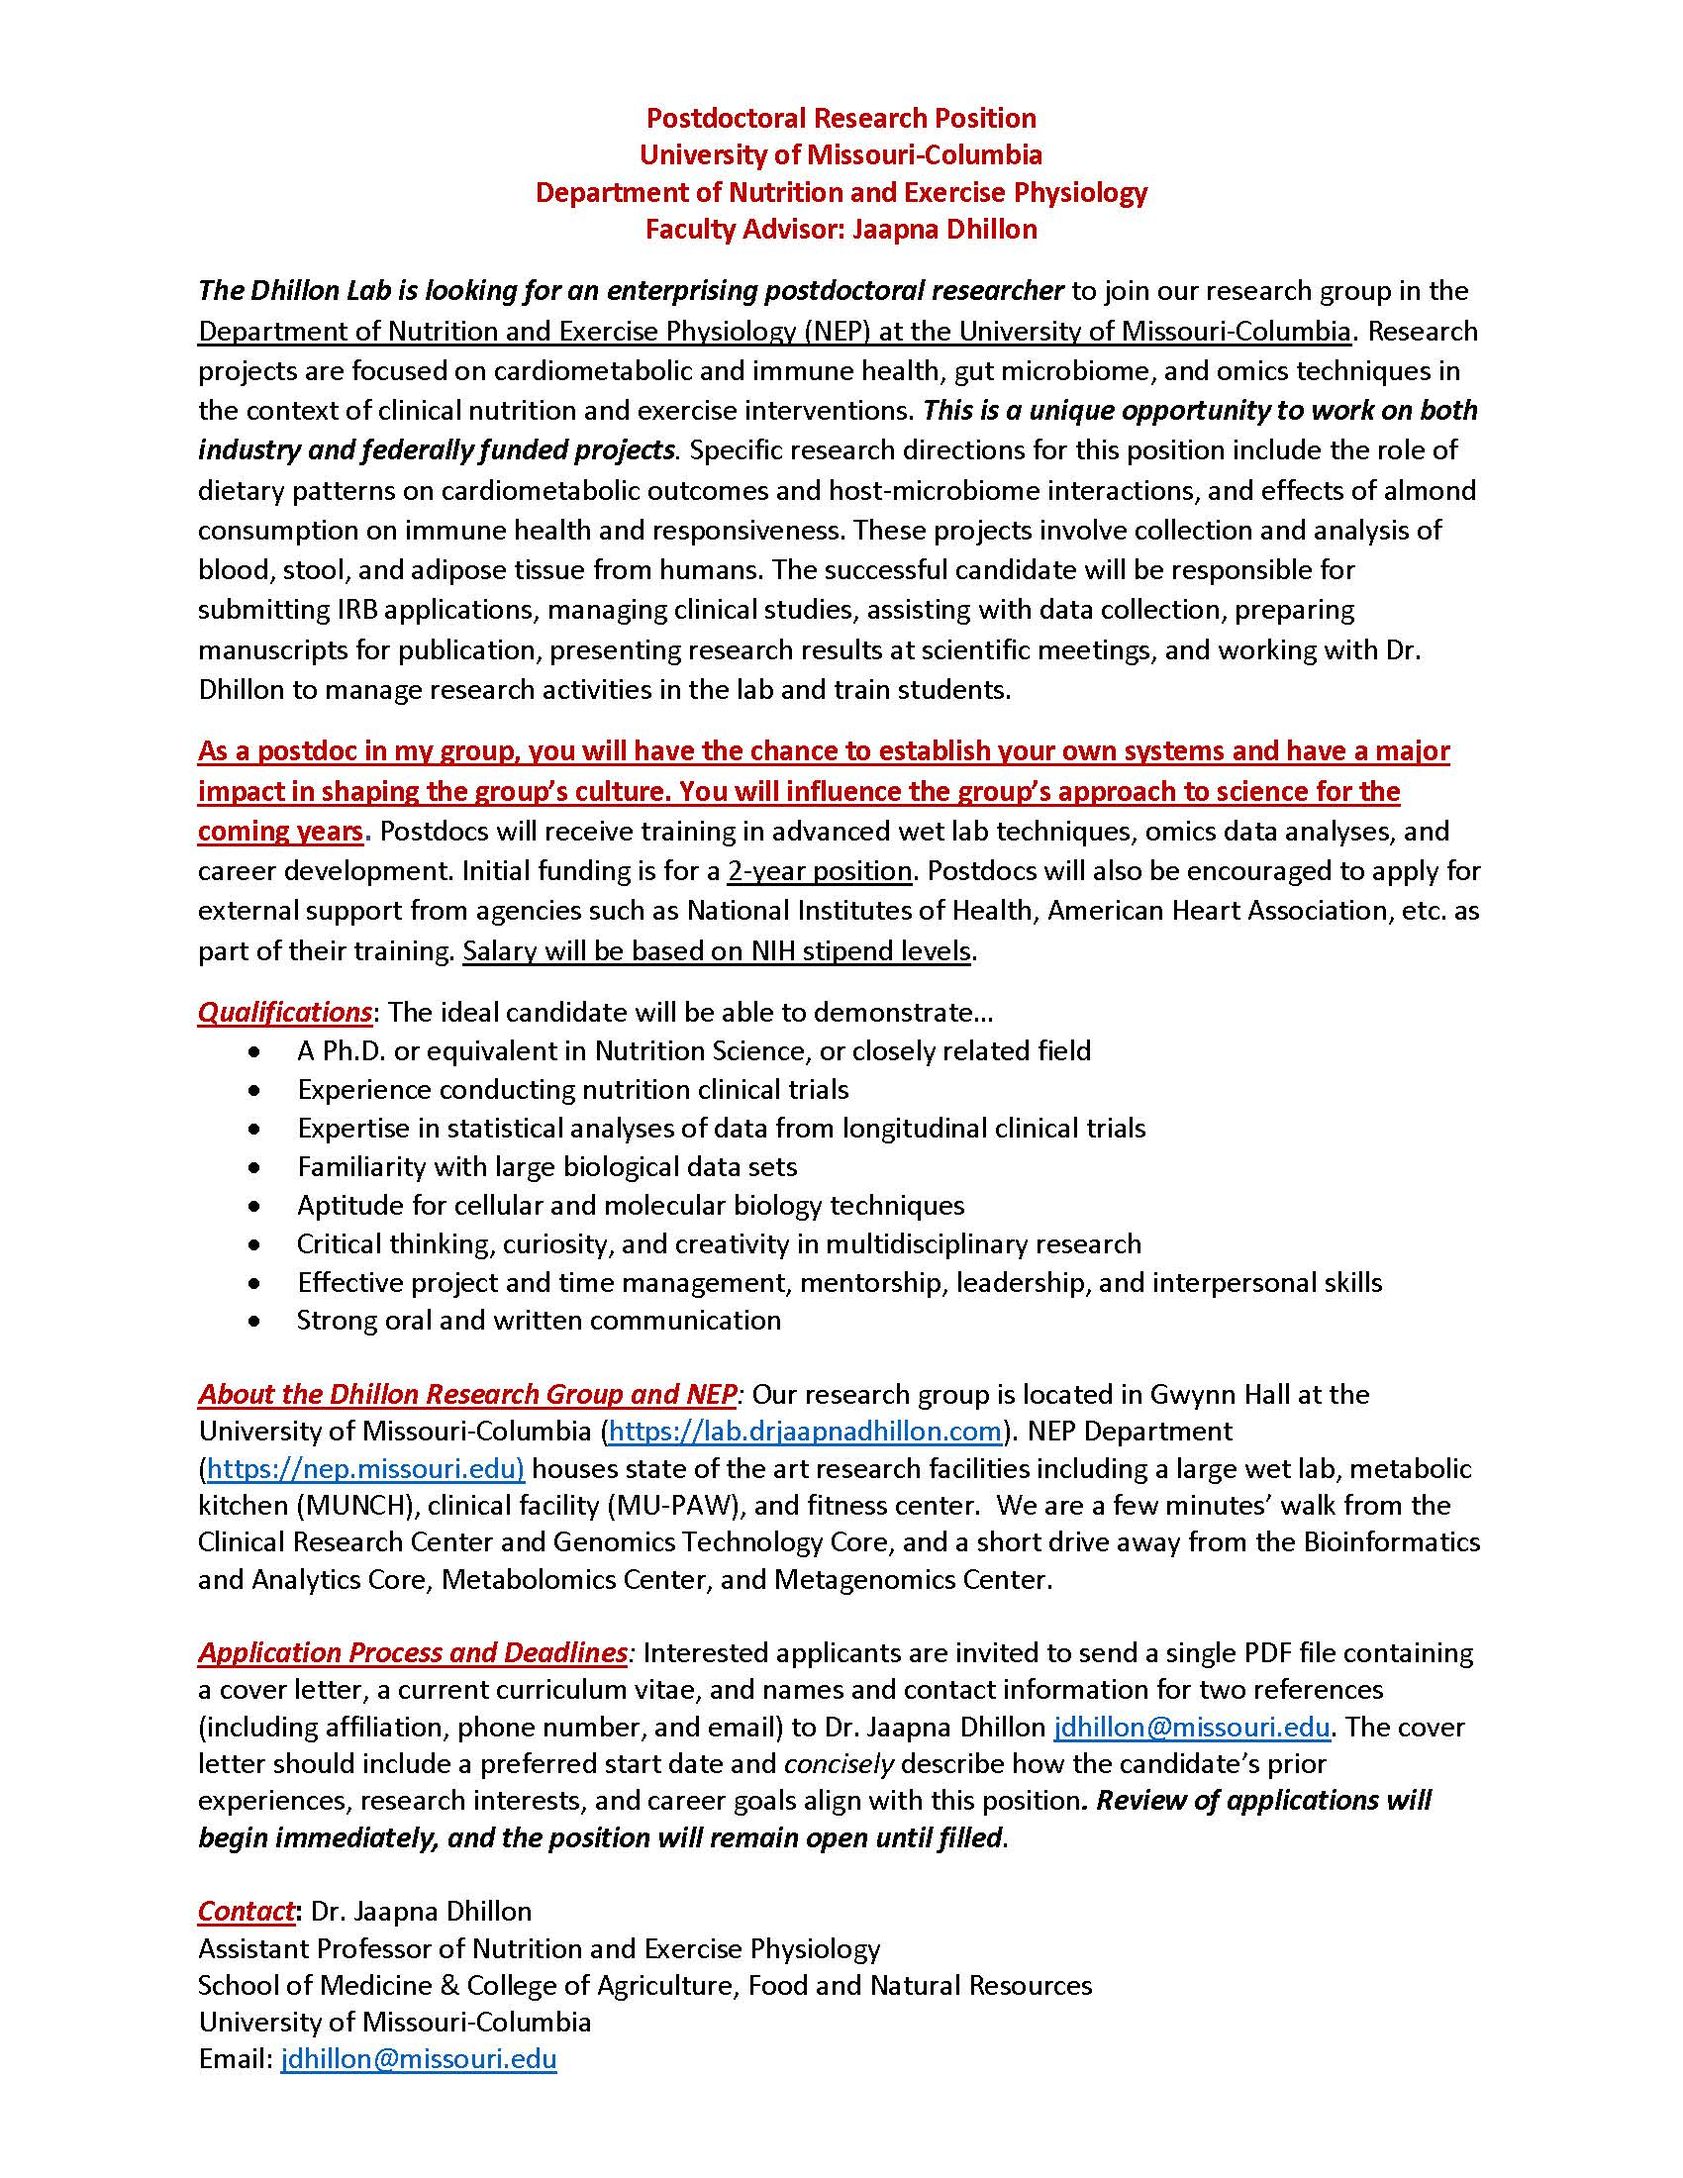
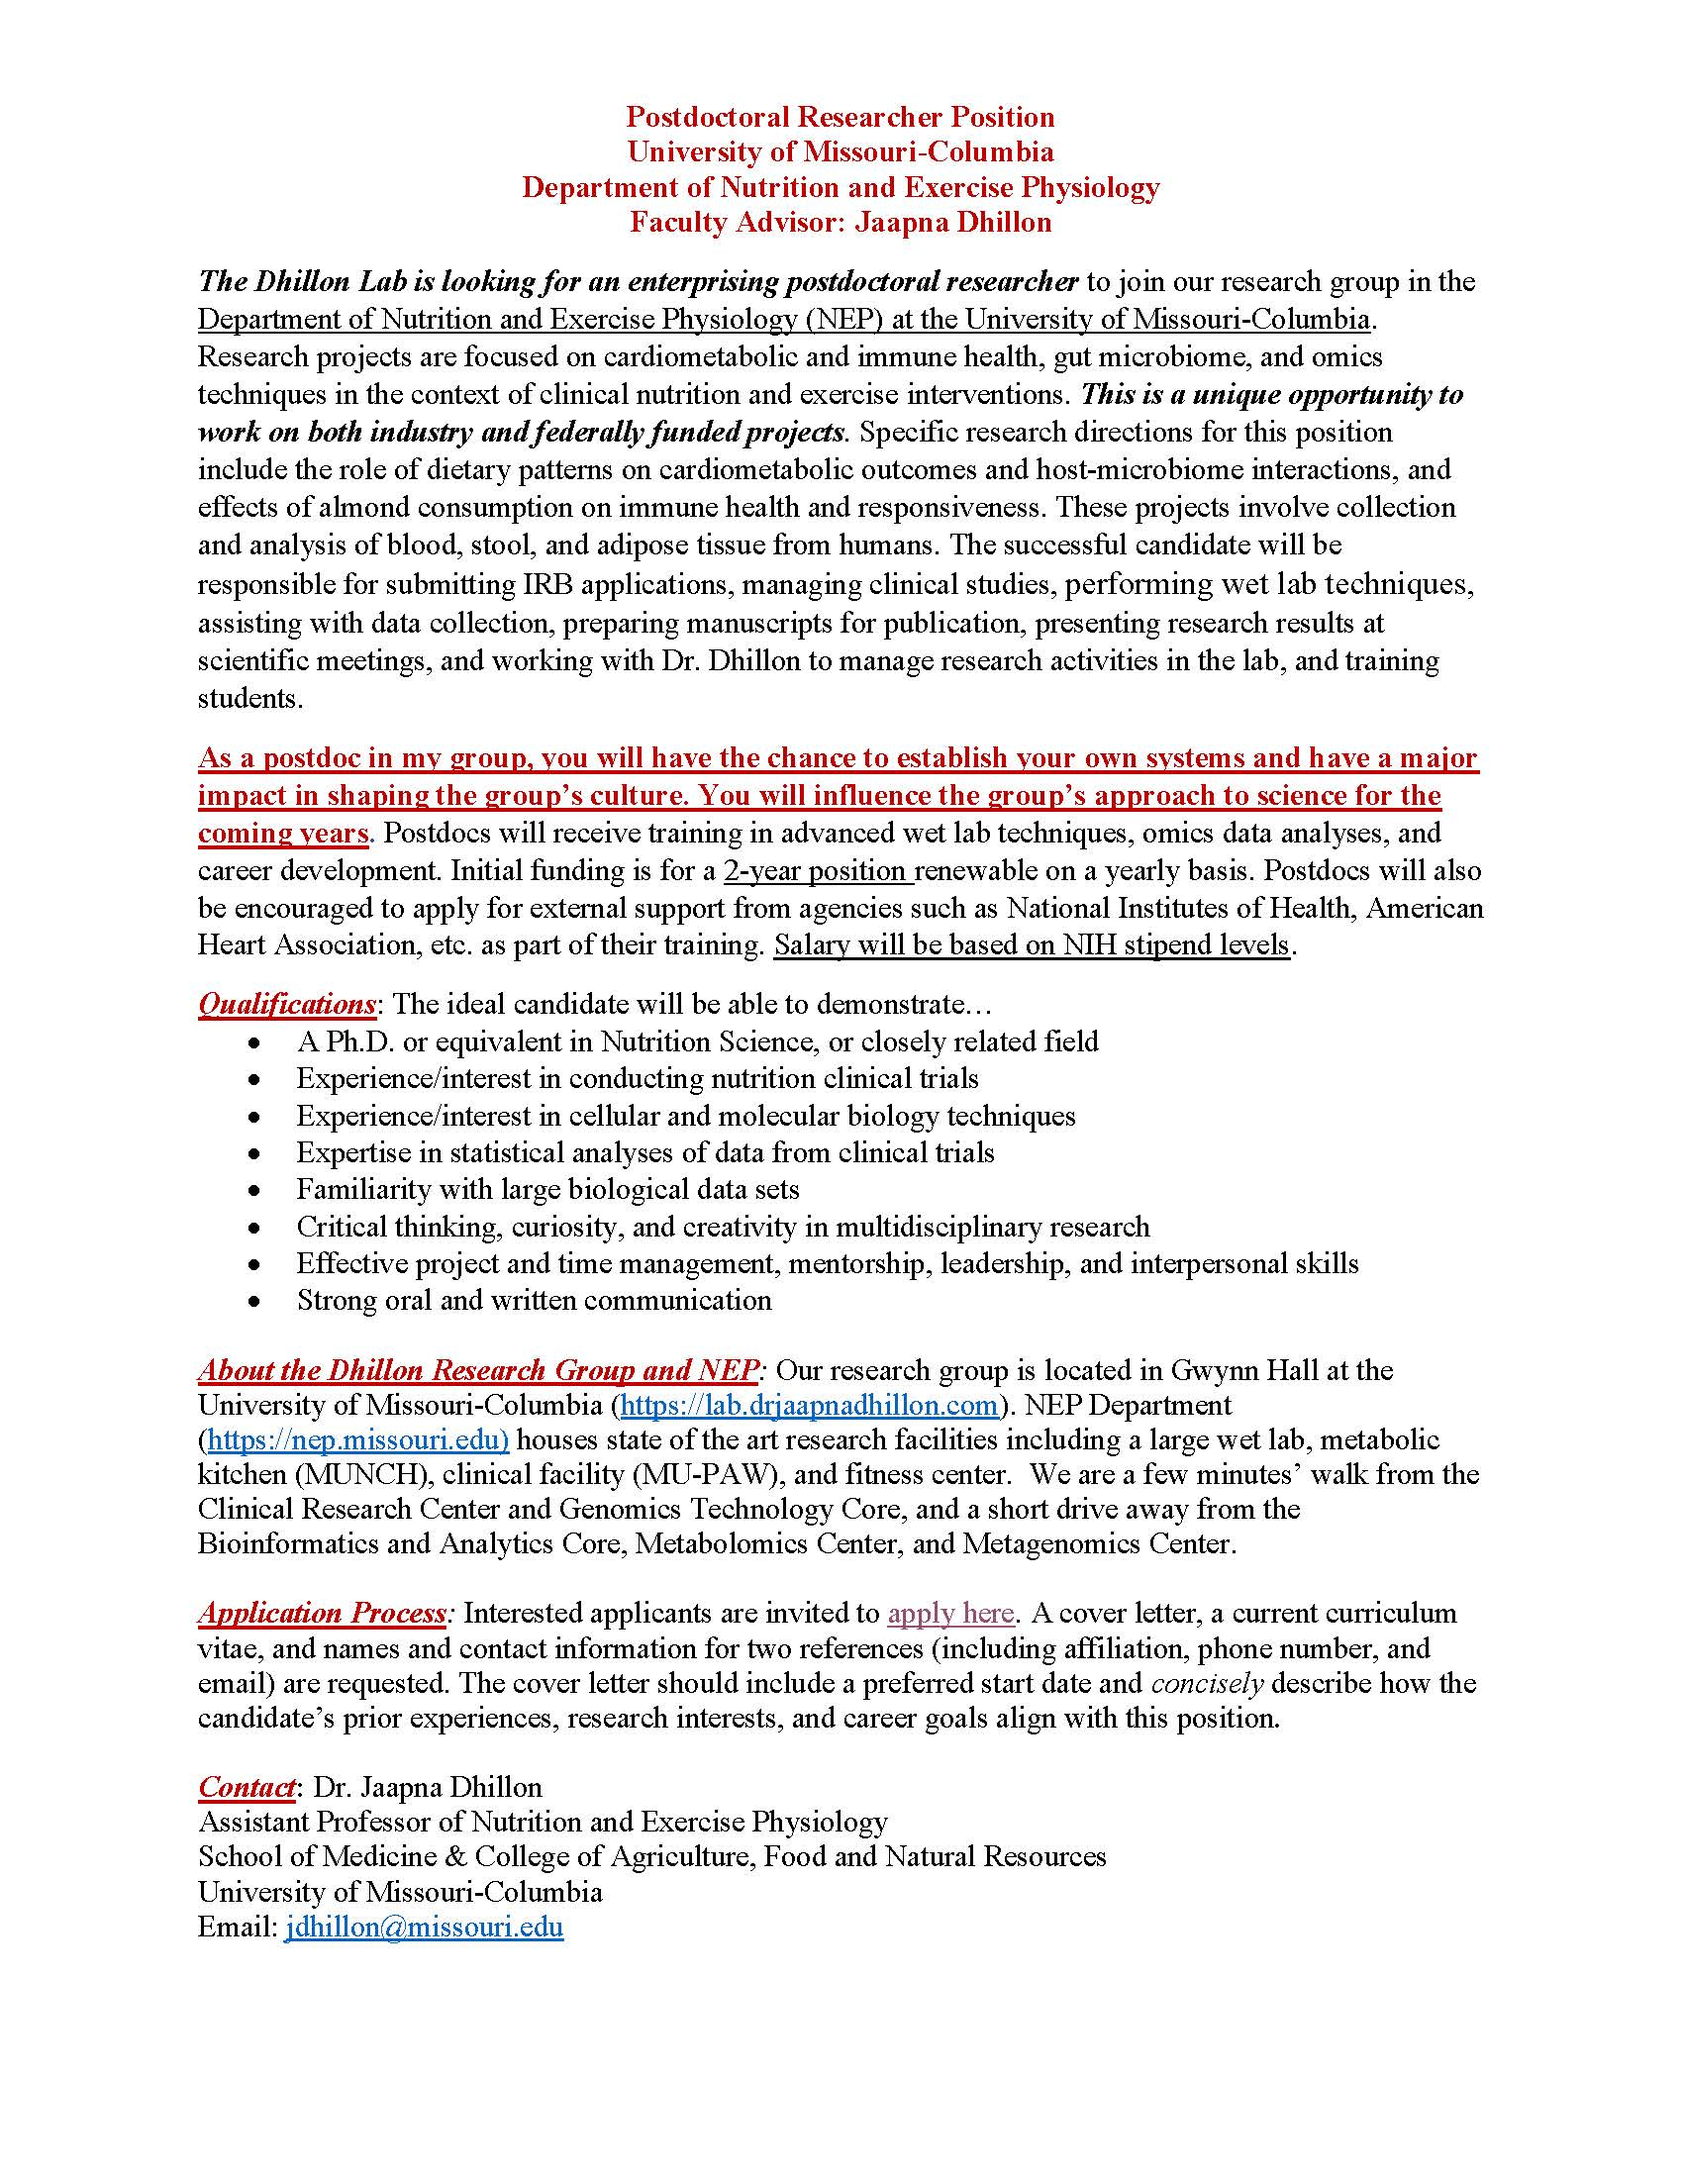
Job Ad updated

Changed region(s): [[0.0935, 0.0309, 0.8729, 0.9582], [0.7794, 0.5564, 0.8106, 0.5873], [0.5612, 0.8964, 0.5924, 0.9273]]

diff --git a/join/index.md b/join/index.md
@@ -14,6 +14,6 @@ We are interested in engaging you in a conversation about your scientific backgr
 Inquiries about graduate and undergraduate student positions should be emailed directly to Jaapna Dhillon. 
 
 ##### As of April 4th, 2022, we have the following staff positions open:
-[Job Ad Document - download here](https://mailmissouri-my.sharepoint.com/:b:/g/personal/jd49d_umsystem_edu/Ef4agD5ZBqtOmC9qyxjTWM8BHUxtN_VS9jB6TJUf8utulA?e=3Gtxeq)
+[Apply here](https://erecruit.umsystem.edu/psc/tamext/COLUM/HRMS/c/HRS_HRAM_FL.HRS_CG_SEARCH_FL.GBL?Page=HRS_APP_JBPST_FL&Action=U&SiteId=9&FOCUS=Applicant&JobOpeningId=41828&PostingSeq=1)
 <img class="img-fluid mx-auto d-block" src="/static/img/Postdoc_Ad.jpg" alt="Study Flyer">
 
